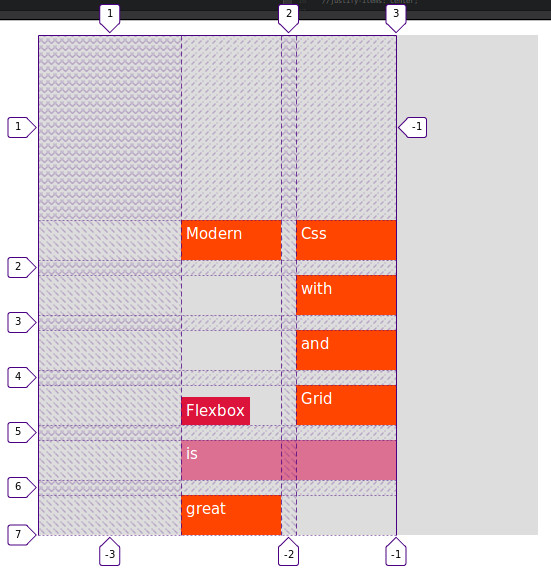
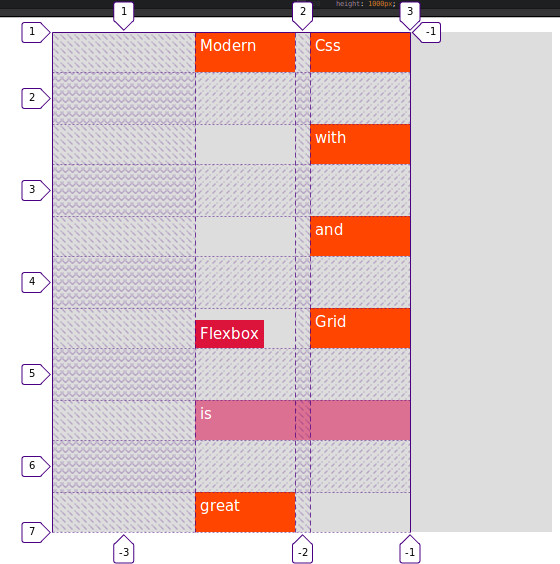
Space between value in align-content property

diff --git a/scss/style.scss b/scss/style.scss
@@ -22,7 +22,7 @@
   height: 1000px;
   
    justify-content: center; // center/ start/ end /space-between /space-around /space-evenly
-   align-content: end;
+   align-content: space-between;
    
   .item {
     padding: 20px;
